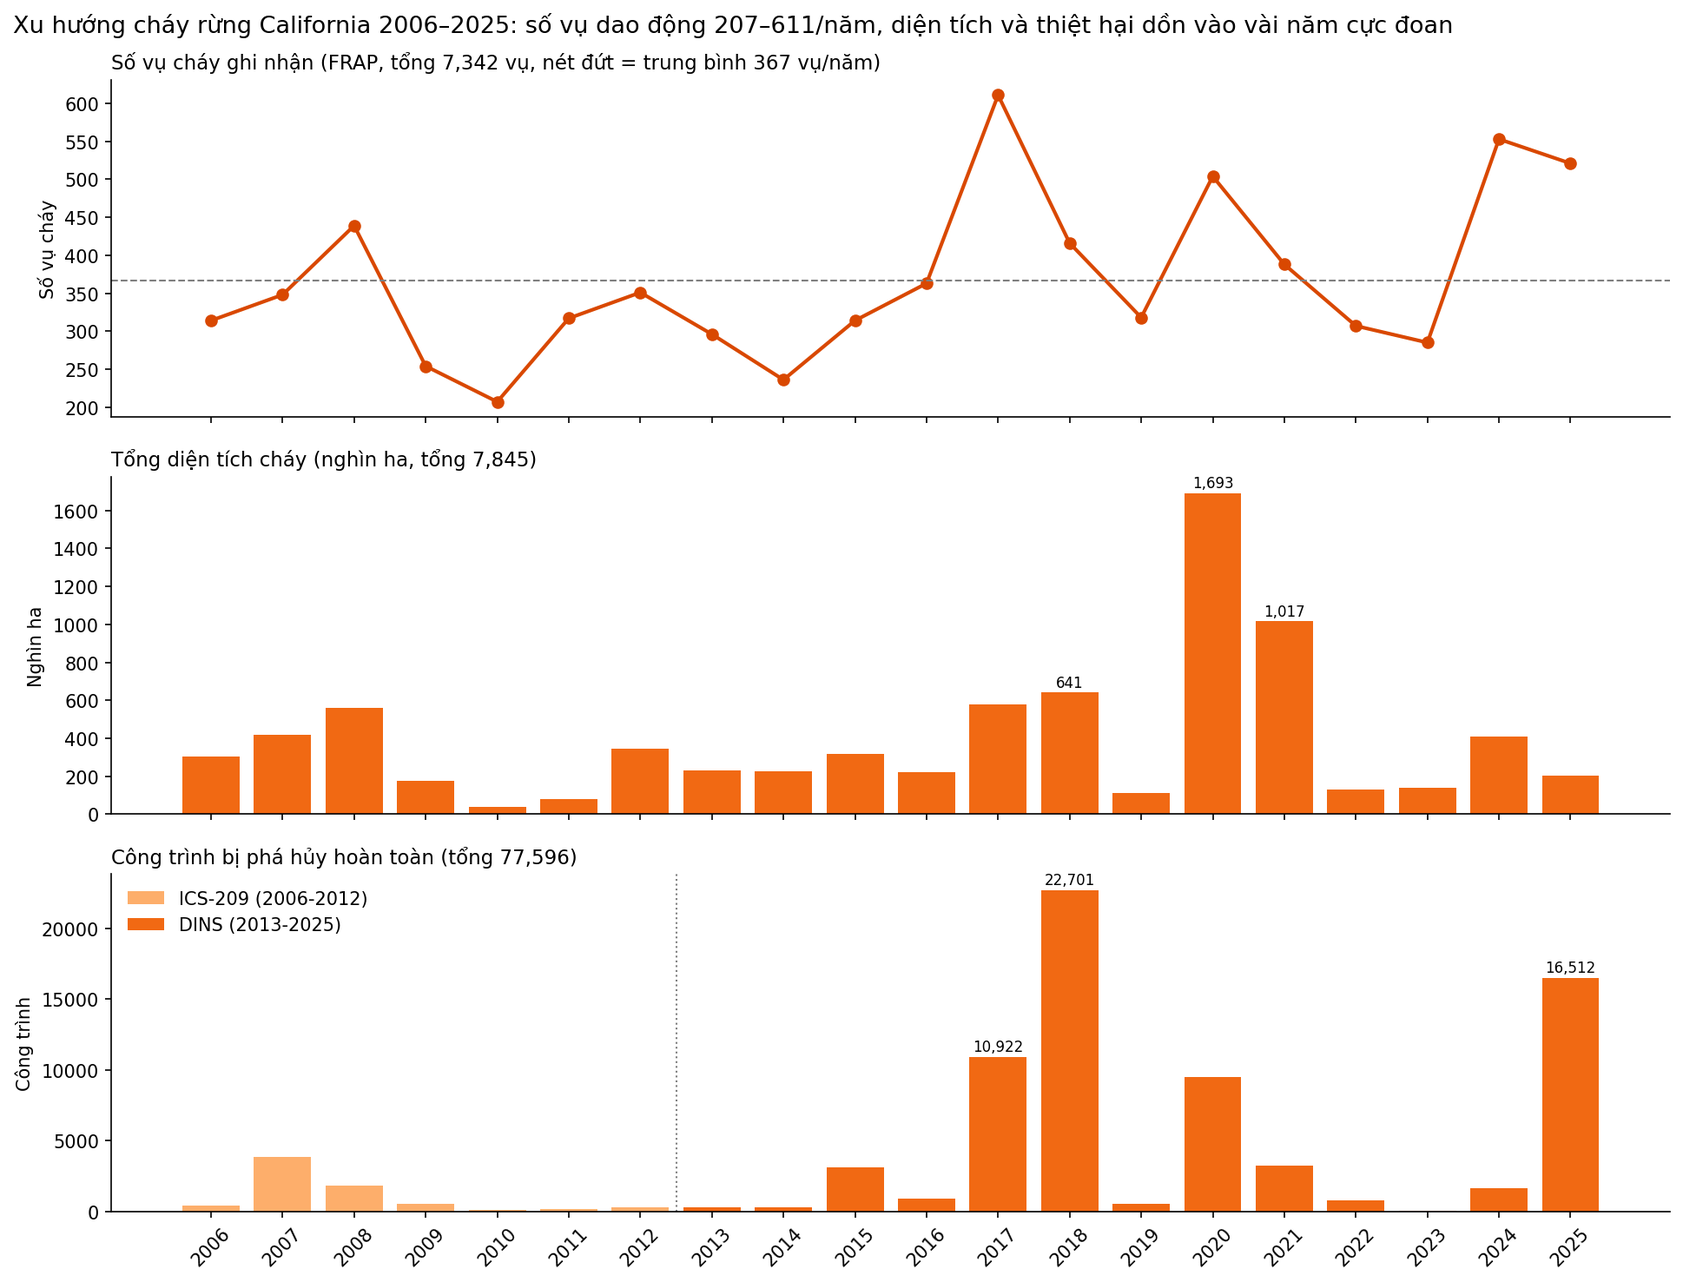
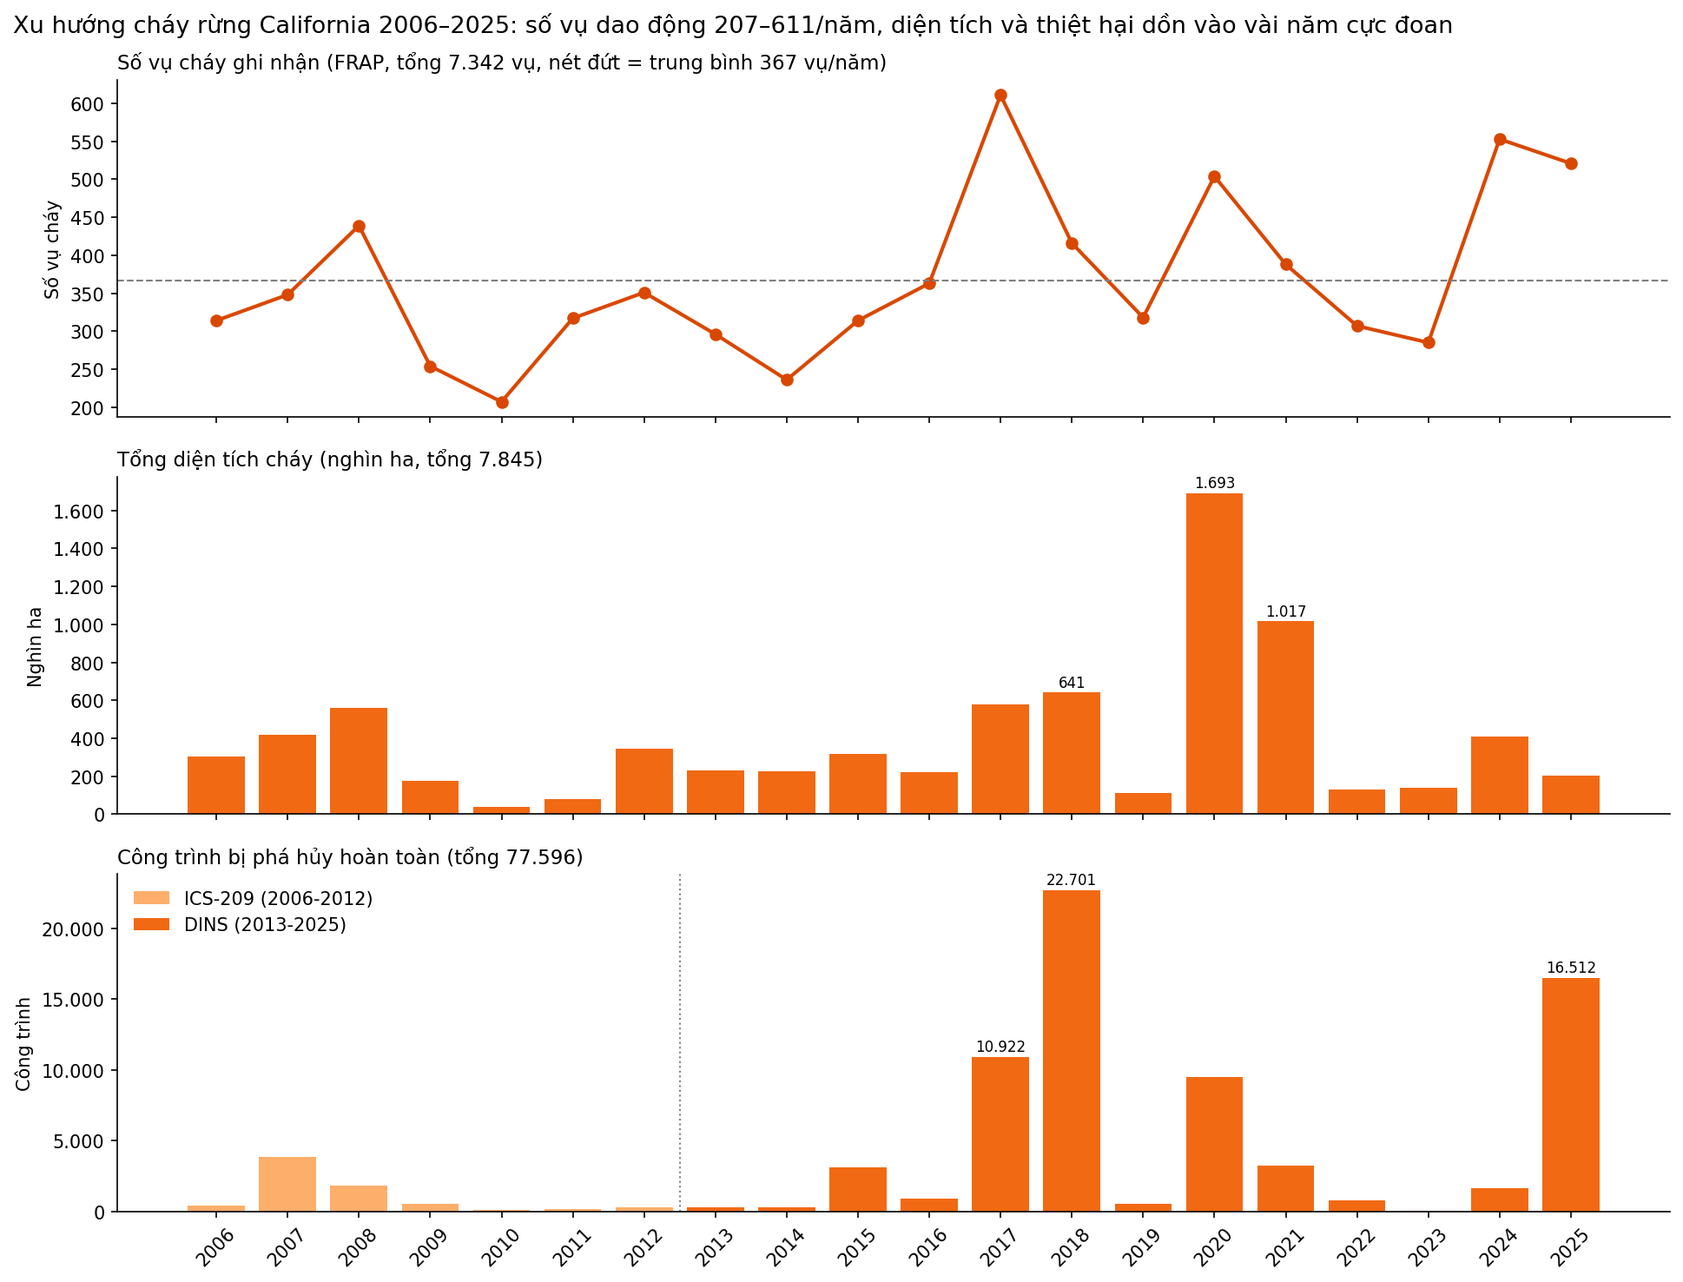
docs(charts): Vietnamese number format, fire names and model chart text
- Add vn_number / VN_TICK_FORMATTER (7.342, 0,54) and use them for every
  value, annotation and linear axis tick on EDA and model charts
- Title-case fire names on eda_06 (Camp, Eaton instead of CAMP, EATON)
- Translate model_01 / model_02 chart text to Vietnamese with diacritics

diff --git a/src/02_eda.py b/src/02_eda.py
@@ -29,6 +29,7 @@ if hasattr(sys.stdout, "reconfigure") and sys.stdout.encoding.lower() != "utf-8"
     sys.stdout.reconfigure(encoding="utf-8")
 
 import matplotlib.pyplot as plt
+from matplotlib.ticker import FuncFormatter
 import numpy as np
 import pandas as pd
 import seaborn as sns
@@ -63,6 +64,15 @@ COLOR_FIRE_EXTREME = "#8C2D04"
 # ---------------------------------------------------------------------------
 # Doc du lieu
 # ---------------------------------------------------------------------------
+
+def vn_number(value, decimals: int = 0) -> str:
+    """So hien thi tren bieu do theo kieu Viet Nam: 7.342 (hang nghin), 97,5 (thap phan)."""
+    return f"{value:,.{decimals}f}".replace(",", "_").replace(".", ",").replace("_", ".")
+
+
+# Nhan truc so kieu Viet Nam cho truc tuyen tinh (vd 20.000 thay vi 20000, 0,05 thay vi 0.05)
+VN_TICK_FORMATTER = FuncFormatter(lambda x, _: vn_number(x, 2).rstrip("0").rstrip(","))
+
 
 def load_raw_data(raw_dir: Path = RAW_DIR) -> dict:
     """Doc nguyen trang 5 file tho -> {ten_ngan: DataFrame}. Khong them / sua cot."""
@@ -209,7 +219,7 @@ def plot_missing_values(df=None, output_path: Path = FIGURES_DIR / "eda_01_missi
         top = missing_pct[missing_pct > 0].sort_values(ascending=False).head(top_n)[::-1]
 
         title = Path(RAW_FILES.get(name, name)).stem
-        ax.set_title(f"{title}\n{len(data):,} dòng | {n_missing_cols}/{data.shape[1]} cột có ô trống", loc="left", fontsize=10)
+        ax.set_title(f"{title}\n{vn_number(len(data))} dòng | {n_missing_cols}/{data.shape[1]} cột có ô trống", loc="left", fontsize=10)
         if top.empty:
             ax.text(0.5, 0.5, "Không có ô trống", ha="center", va="center", transform=ax.transAxes)
             ax.set_axis_off()
@@ -218,7 +228,7 @@ def plot_missing_values(df=None, output_path: Path = FIGURES_DIR / "eda_01_missi
         labels = [c if len(c) <= 40 else c[:37] + "..." for c in top.index]
         ax.barh(labels, top.values, color=cmap(0.3 + 0.7 * top.values / 100))
         for y, v in enumerate(top.values):
-            ax.text(v + 1, y, f"{v:.1f}%", va="center", fontsize=8)
+            ax.text(v + 1, y, f"{vn_number(v, 1)}%", va="center", fontsize=8)
         ax.axvline(50, color=COLOR_NEUTRAL, linestyle="--", linewidth=1)  # nguong 50%: can nhac bo cot
         ax.set_xlim(0, 112)
         ax.set_xlabel("Tỷ lệ khuyết thiếu (%)")
@@ -248,11 +258,11 @@ def plot_distributions(df=None, output_path: Path = FIGURES_DIR / "eda_02_distri
     fig, ax = plt.subplots(figsize=(10, 5))
     sns.histplot(area, log_scale=True, bins=40, kde=True, color=COLOR_FIRE_MID, edgecolor="white", ax=ax)
     ax.axvline(area.median(), color=COLOR_NEUTRAL, linestyle="--", linewidth=1)
-    ax.text(area.median(), 0.97, f" trung vị {area.median():,.0f} ha", transform=ax.get_xaxis_transform(), va="top", fontsize=8)
+    ax.text(area.median(), 0.97, f" trung vị {vn_number(area.median())} ha", transform=ax.get_xaxis_transform(), va="top", fontsize=8)
     ax.axvline(MEGAFIRE_HA, color=COLOR_FIRE_EXTREME, linestyle=":", linewidth=1.2)
-    ax.text(MEGAFIRE_HA, 0.88, f" siêu đám cháy\n ≥ {MEGAFIRE_HA:,.0f} ha", transform=ax.get_xaxis_transform(),
+    ax.text(MEGAFIRE_HA, 0.88, f" siêu đám cháy\n ≥ {vn_number(MEGAFIRE_HA)} ha", transform=ax.get_xaxis_transform(),
             va="top", fontsize=8, color=COLOR_FIRE_EXTREME)
-    ax.set_title(f"Diện tích cháy (FRAP {STUDY_YEARS[0]}–{STUDY_YEARS[1]}, n = {len(area):,} vụ)", loc="left", fontsize=11)
+    ax.set_title(f"Diện tích cháy (FRAP {STUDY_YEARS[0]}–{STUDY_YEARS[1]}, n = {vn_number(len(area))} vụ)", loc="left", fontsize=11)
     ax.set_xlabel("Diện tích cháy, ha (thang log)")
     ax.set_ylabel("Số vụ cháy")
     ax.spines[["top", "right"]].set_visible(False)
@@ -279,7 +289,7 @@ def plot_outlier_boxplots(df=None, output_path: Path = FIGURES_DIR / "eda_03_out
     for y, source in enumerate(palette):
         top = data[data["source"] == source].nlargest(top_n, "structures_destroyed")
         for k, (_, row) in enumerate(top.iterrows()):
-            ax.annotate(f"{row['fire_name'].title()} {int(row['year'])}: {int(row['structures_destroyed']):,}",
+            ax.annotate(f"{row['fire_name'].title()} {int(row['year'])}: {vn_number(row['structures_destroyed'])}",
                         xy=(row["structures_destroyed"], y), xytext=(0, 18 + 16 * k), textcoords="offset points",
                         ha="center", fontsize=8, arrowprops={"arrowstyle": "-", "color": COLOR_NEUTRAL, "lw": 0.8})
 
@@ -319,15 +329,17 @@ def plot_correlation_heatmap(df=None, output_path: Path = FIGURES_DIR / "eda_04_
     for ax, (title, corr) in zip(axes, matrices.items()):
         corr = corr.rename(index=labels, columns=labels).iloc[1:, :-1]
         # RdBu phan ky theo docs/COLOR_GUIDE.md muc 2.2: am = xanh, 0 = xam nhat, duong = do
-        sns.heatmap(corr, mask=mask, annot=True, fmt=".2f", cmap="RdBu_r", vmin=-1, vmax=1, center=0,
+        sns.heatmap(corr, mask=mask, annot=corr.map(lambda v: vn_number(v, 2)), fmt="", cmap="RdBu_r", vmin=-1, vmax=1, center=0,
                     square=True, linewidths=0.5, cbar=ax is axes[-1], cbar_kws={"shrink": 0.8}, ax=ax)
         ax.set_title(title, loc="left", fontsize=11)
+        if ax.collections[0].colorbar is not None:
+            ax.collections[0].colorbar.ax.yaxis.set_major_formatter(FuncFormatter(lambda x, _: vn_number(x, 2)))
         ax.tick_params(axis="x", rotation=30)
         ax.tick_params(axis="y", rotation=0)
 
     n_days = int(values["containment_days"].notna().sum())
     fig.suptitle(f"Tương quan giữa các biến vụ cháy FRAP {STUDY_YEARS[0]}–{STUDY_YEARS[1]} "
-                 f"(n = {len(fires):,} vụ; {n_days:,} vụ có đủ ngày bắt đầu / dập tắt)", fontsize=13, x=0.01, ha="left")
+                 f"(n = {vn_number(len(fires))} vụ; {vn_number(n_days)} vụ có đủ ngày bắt đầu / dập tắt)", fontsize=13, x=0.01, ha="left")
     fig.tight_layout()
     _save_figure(fig, output_path, "Correlation Heatmap")
     return fig
@@ -354,15 +366,15 @@ def plot_temporal_trends(df=None, output_path: Path = FIGURES_DIR / "eda_05_temp
     ax.plot(n_fires.index, n_fires.values, marker="o", color=COLOR_FIRE_HIGH, linewidth=2)
     ax.axhline(n_fires.mean(), color=COLOR_NEUTRAL, linestyle="--", linewidth=1)
     ax.set_ylabel("Số vụ cháy")
-    ax.set_title(f"Số vụ cháy ghi nhận (FRAP, tổng {n_fires.sum():,} vụ, nét đứt = trung bình {n_fires.mean():,.0f} vụ/năm)",
+    ax.set_title(f"Số vụ cháy ghi nhận (FRAP, tổng {vn_number(n_fires.sum())} vụ, nét đứt = trung bình {vn_number(n_fires.mean())} vụ/năm)",
                  loc="left", fontsize=11)
 
     # 2. Tong dien tich chay moi nam
     ax = axes[1]
     ax.bar(area_kha.index, area_kha.values, color=COLOR_FIRE_MID)
     ax.set_ylabel("Nghìn ha")
-    ax.set_title(f"Tổng diện tích cháy (nghìn ha, tổng {area_kha.sum():,.0f})", loc="left", fontsize=11)
-    _label_top_bars(ax, area_kha, top_n, "{:,.0f}")
+    ax.set_title(f"Tổng diện tích cháy (nghìn ha, tổng {vn_number(area_kha.sum())})", loc="left", fontsize=11)
+    _label_top_bars(ax, area_kha, top_n)
 
     # 3. Cong trinh bi pha huy moi nam, to mau theo nguon du lieu
     ax = axes[2]
@@ -372,14 +384,15 @@ def plot_temporal_trends(df=None, output_path: Path = FIGURES_DIR / "eda_05_temp
         values = destroyed.get(source, pd.Series(0, index=destroyed.index))
         ax.bar(destroyed.index, values, bottom=bottom, color=color, label=source)
         bottom += values.to_numpy()
-    _label_top_bars(ax, destroyed.sum(axis=1), top_n, "{:,.0f}")
+    _label_top_bars(ax, destroyed.sum(axis=1), top_n)
     ax.axvline(2012.5, color=COLOR_NEUTRAL, linestyle=":", linewidth=1)  # moc chuyen nguon ICS-209 -> DINS
     ax.legend(frameon=False, loc="upper left")
     ax.set_ylabel("Công trình")
-    ax.set_title(f"Công trình bị phá hủy hoàn toàn (tổng {int(destroyed.to_numpy().sum()):,})", loc="left", fontsize=11)
+    ax.set_title(f"Công trình bị phá hủy hoàn toàn (tổng {vn_number(destroyed.to_numpy().sum())})", loc="left", fontsize=11)
 
     for ax in axes:
         ax.spines[["top", "right"]].set_visible(False)
+        ax.yaxis.set_major_formatter(VN_TICK_FORMATTER)
     axes[-1].set_xticks(list(years))
     axes[-1].tick_params(axis="x", rotation=45)
     fig.suptitle(f"Xu hướng cháy rừng California {STUDY_YEARS[0]}–{STUDY_YEARS[1]}: "
@@ -390,10 +403,10 @@ def plot_temporal_trends(df=None, output_path: Path = FIGURES_DIR / "eda_05_temp
     return fig
 
 
-def _label_top_bars(ax: plt.Axes, series: pd.Series, top_n: int, fmt: str) -> None:
+def _label_top_bars(ax: plt.Axes, series: pd.Series, top_n: int) -> None:
     """Ghi gia tri len top_n cot cao nhat."""
     for x, v in series.nlargest(top_n).items():
-        ax.annotate(fmt.format(v), xy=(x, v), xytext=(0, 3), textcoords="offset points", ha="center", fontsize=8)
+        ax.annotate(vn_number(v), xy=(x, v), xytext=(0, 3), textcoords="offset points", ha="center", fontsize=8)
 
 
 def plot_casualties(df=None, output_path: Path = FIGURES_DIR / "eda_06_casualties.png", top_n: int = 3) -> plt.Figure:
@@ -420,14 +433,15 @@ def plot_casualties(df=None, output_path: Path = FIGURES_DIR / "eda_06_casualtie
         # Nhan top_n nam: gia tri sau gop + vu chay lon nhat trong nam (neu tach duoc ten)
         for year, value in merged.nlargest(top_n).items():
             top = events[events["YEAR"] == year].nlargest(1, col).iloc[0]
-            name = "" if top["fire_key"].startswith("_EVENT_") else f"\n{top['fire_key']} {top[col]:,}"
-            ax.annotate(f"{value:,}{name}", xy=(year, raw_by_year.at[year, col]), xytext=(0, 3),
+            name = "" if top["fire_key"].startswith("_EVENT_") else f"\n{top['fire_key'].title()} {vn_number(top[col])}"
+            ax.annotate(f"{vn_number(value)}{name}", xy=(year, raw_by_year.at[year, col]), xytext=(0, 3),
                         textcoords="offset points", ha="center", fontsize=8)
         ax.set_ylabel("Người")
-        ax.set_title(f"{label}: {merged.sum():,} người sau khi gộp trùng (dữ liệu thô ghi {raw_by_year[col].sum():,})",
+        ax.set_title(f"{label}: {vn_number(merged.sum())} người sau khi gộp trùng (dữ liệu thô ghi {vn_number(raw_by_year[col].sum())})",
                      loc="left", fontsize=11)
         ax.set_ylim(0, raw_by_year[col].max() * 1.25)  # chua cho nhan 2 dong tren cot cao nhat
         ax.spines[["top", "right"]].set_visible(False)
+        ax.yaxis.set_major_formatter(VN_TICK_FORMATTER)
 
     axes[0].legend(frameon=False, loc="upper left")
     axes[-1].set_xticks(list(years))
@@ -435,7 +449,7 @@ def plot_casualties(df=None, output_path: Path = FIGURES_DIR / "eda_06_casualtie
 
     deadliest = events.nlargest(1, "DEATHS_DIRECT").iloc[0]
     total_deaths = by_year["DEATHS_DIRECT"].sum()
-    fig.suptitle(f"Thiệt hại về người hiếm và dồn vào vài thảm họa: riêng {deadliest['fire_key']} {deadliest['YEAR']} chiếm "
+    fig.suptitle(f"Thiệt hại về người hiếm và dồn vào vài thảm họa: riêng {deadliest['fire_key'].title()} {deadliest['YEAR']} chiếm "
                  f"{deadliest['DEATHS_DIRECT'] / total_deaths:.0%} số người chết trực tiếp {STUDY_YEARS[0]}–{STUDY_YEARS[1]}",
                  fontsize=13, x=0.01, ha="left")
     fig.tight_layout()

diff --git a/src/08_predictive_model.py b/src/08_predictive_model.py
@@ -21,6 +21,7 @@ Cách chạy (từ thư mục gốc dự án, sau src/03_clean.py):
     python src/08_predictive_model.py
 """
 
+import importlib.util
 import sys
 from pathlib import Path
 
@@ -34,6 +35,11 @@ from scipy import stats
 from sklearn.linear_model import LinearRegression
 from sklearn.metrics import mean_absolute_error, r2_score, root_mean_squared_error
 
+# Dung lai ham dinh dang so kieu Viet Nam tu 02_eda.py (ten file bat dau bang so nen khong import thuong duoc)
+_spec = importlib.util.spec_from_file_location("eda", Path(__file__).parent / "02_eda.py")
+eda = importlib.util.module_from_spec(_spec)
+_spec.loader.exec_module(eda)
+
 INPUT_PATH = Path("data/interim/master_rules_cleaned.csv")
 FORECAST_PATH = Path("data/clean/forecast_results.csv")
 METRICS_PATH = Path("data/clean/forecast_metrics.csv")
@@ -46,9 +52,9 @@ CONFIDENCE = 0.95
 
 # (ten cot, co huan luyen tren log1p khong, nhan hien thi)
 FORECAST_TARGETS = [
-    ("n_fires", False, "So vu chay"),
-    ("area_ha", True, "Tong dien tich chay (ha)"),
-    ("destroyed", True, "Cong trinh bi pha huy"),
+    ("n_fires", False, "Số vụ cháy"),
+    ("area_ha", True, "Tổng diện tích cháy (ha)"),
+    ("destroyed", True, "Công trình bị phá hủy"),
 ]
 
 # Mau theo docs/COLOR_GUIDE.md
@@ -56,6 +62,9 @@ COLOR_ACTUAL = "#D94801"
 COLOR_FIT = "#7F7F7F"
 COLOR_FORECAST = "#2171B5"
 COLOR_BAND = "#9ECAE1"
+
+# Don vi trend_unit trong forecast_metrics.csv -> nhan hien thi tren bieu do
+TREND_UNIT_LABELS = {"%/nam": "%/năm", "don vi/nam": "vụ/năm"}
 
 
 def load_data(path: Path = INPUT_PATH) -> pd.DataFrame:
@@ -164,26 +173,28 @@ def plot_forecasts(forecast: pd.DataFrame, output_path: Path = FIGURE_PATH) -> p
         hist, future = data[~data["is_forecast"]], data[data["is_forecast"]]
 
         ax.fill_between(data["year"], data["lower_95"], data["upper_95"], color=COLOR_BAND, alpha=0.35,
-                        label=f"Khoang du bao {CONFIDENCE:.0%}")
-        ax.plot(hist["year"], hist["predicted"], color=COLOR_FIT, linewidth=1.5, label="Duong xu huong")
+                        label=f"Khoảng dự báo {CONFIDENCE:.0%}")
+        ax.plot(hist["year"], hist["predicted"], color=COLOR_FIT, linewidth=1.5, label="Đường xu hướng")
         ax.plot(future["year"], future["predicted"], color=COLOR_FORECAST, linewidth=2.2, marker="o", markersize=4,
-                label=f"Du bao {future['year'].min()}-{future['year'].max()}")
-        ax.scatter(hist["year"], hist["actual"], color=COLOR_ACTUAL, zorder=3, s=25, label="Thuc te")
+                label=f"Dự báo {future['year'].min()}–{future['year'].max()}")
+        ax.scatter(hist["year"], hist["actual"], color=COLOR_ACTUAL, zorder=3, s=25, label="Thực tế")
         ax.axvline(last_year + 0.5, color=COLOR_FIT, linestyle=":", linewidth=1)
 
         end = future.iloc[-1]
-        ax.annotate(f"{end['predicted']:,.0f}\n[{end['lower_95']:,.0f} - {end['upper_95']:,.0f}]",
+        ax.annotate(f"{eda.vn_number(end['predicted'])}\n[{eda.vn_number(end['lower_95'])} – {eda.vn_number(end['upper_95'])}]",
                     xy=(end["year"], end["predicted"]), xytext=(8, 0), textcoords="offset points",
                     va="center", fontsize=8, color=COLOR_FORECAST)
         if use_log:
             ax.set_yscale("log")  # khoang du bao lech manh, truc log de doc ca 2 dau
+        else:
+            ax.yaxis.set_major_formatter(eda.VN_TICK_FORMATTER)
         ax.set_ylabel(label + (" (log)" if use_log else ""))
         ax.spines[["top", "right"]].set_visible(False)
 
     axes[0].legend(frameon=False, loc="upper left", fontsize=8, ncol=4)
     axes[-1].set_xticks(range(int(forecast["year"].min()), int(forecast["year"].max()) + 1, 2))
-    fig.suptitle(f"Du bao Linear Regression {min(FORECAST_YEARS)}-{max(FORECAST_YEARS)} "
-                 f"(vung xanh = khoang du bao {CONFIDENCE:.0%})", fontsize=13, x=0.01, ha="left")
+    fig.suptitle(f"Dự báo hồi quy tuyến tính {min(FORECAST_YEARS)}–{max(FORECAST_YEARS)} "
+                 f"(vùng xanh = khoảng dự báo {CONFIDENCE:.0%})", fontsize=13, x=0.01, ha="left")
     fig.tight_layout()
 
     output_path.parent.mkdir(parents=True, exist_ok=True)
@@ -197,9 +208,9 @@ def plot_model_metrics(metrics: pd.DataFrame, output_path: Path = METRICS_FIGURE
     fig, axes = plt.subplots(1, 3, figsize=(15, 4.5))
 
     labels_map = {
-        "n_fires": "So vu chay\n(n_fires)",
-        "area_ha": "Tong dien tich\n(area_ha)",
-        "destroyed": "Cong trinh pha huy\n(destroyed)",
+        "n_fires": "Số vụ cháy\n(n_fires)",
+        "area_ha": "Tổng diện tích\n(area_ha)",
+        "destroyed": "Công trình phá hủy\n(destroyed)",
     }
     y_labels = [labels_map.get(m, m) for m in metrics["metric"]]
 
@@ -210,27 +221,29 @@ def plot_model_metrics(metrics: pd.DataFrame, output_path: Path = METRICS_FIGURE
     max_trend = float(metrics["trend_per_year"].max())
     for bar, (_, row) in zip(bars, metrics.iterrows()):
         val = row["trend_per_year"]
-        unit = row["trend_unit"]
+        unit = TREND_UNIT_LABELS.get(row["trend_unit"], row["trend_unit"])
         ax.text(val + (max_trend * 0.03), bar.get_y() + bar.get_height() / 2,
-                f"+{val:.2f} {unit}", va="center", ha="left", fontsize=9, fontweight="bold", color="#084594")
-    ax.set_title("1. Toc do thay doi hang nam (Trend)", fontsize=11, fontweight="bold", loc="left")
-    ax.set_xlabel("Gia tri thay doi moi nam")
+                f"{'+' if val >= 0 else '-'}{eda.vn_number(abs(val), 2)} {unit}", va="center", ha="left", fontsize=9, fontweight="bold", color="#084594")
+    ax.set_title("1. Tốc độ thay đổi hằng năm (xu hướng)", fontsize=11, fontweight="bold", loc="left")
+    ax.set_xlabel("Giá trị thay đổi mỗi năm")
     ax.set_xlim(0, max_trend * 1.5)
+    ax.xaxis.set_major_formatter(eda.VN_TICK_FORMATTER)
     ax.spines[["top", "right"]].set_visible(False)
 
     # 2. Muc y nghia thong ke (p-value) & R2
     ax = axes[1]
     p_colors = [COLOR_ACTUAL if p < 0.05 else (COLOR_BAND if p < 0.1 else COLOR_FIT) for p in metrics["p_value"]]
     bars = ax.bar(y_labels, metrics["p_value"], color=p_colors, alpha=0.85, width=0.5)
-    ax.axhline(0.05, color="#B2182B", linestyle=":", linewidth=1.5, label="Nguong p = 0.05 (95% CI)")
+    ax.axhline(0.05, color="#B2182B", linestyle=":", linewidth=1.5, label="Ngưỡng p = 0,05 (độ tin cậy 95%)")
     max_p = float(metrics["p_value"].max())
     for bar, (_, row) in zip(bars, metrics.iterrows()):
         ax.text(bar.get_x() + bar.get_width() / 2, bar.get_height() + 0.02,
-                f"p={row['p_value']:.3f}\nR²={row['r2_fit_all_years']:.1%}",
+                f"p = {eda.vn_number(row['p_value'], 3)}\nR² = {eda.vn_number(row['r2_fit_all_years'] * 100, 1)}%",
                 ha="center", va="bottom", fontsize=8.5)
-    ax.set_title("2. Kiem dinh y nghia thong ke (p-value)", fontsize=11, fontweight="bold", loc="left")
-    ax.set_ylabel("Gia tri p-value")
+    ax.set_title("2. Kiểm định ý nghĩa thống kê (p-value)", fontsize=11, fontweight="bold", loc="left")
+    ax.set_ylabel("Giá trị p-value")
     ax.set_ylim(0, max_p * 1.35)
+    ax.yaxis.set_major_formatter(eda.VN_TICK_FORMATTER)
     ax.legend(frameon=False, loc="upper right", fontsize=8.5)
     ax.spines[["top", "right"]].set_visible(False)
 
@@ -238,19 +251,20 @@ def plot_model_metrics(metrics: pd.DataFrame, output_path: Path = METRICS_FIGURE
     ax = axes[2]
     rel_mae = (metrics["mae"] / metrics["mae_naive_mean"]) * 100
     bars = ax.bar(y_labels, rel_mae, color=["#6BAED6", "#9ECAE1", "#4292C6"], alpha=0.9, width=0.5)
-    ax.axhline(100, color="#7F7F7F", linestyle="--", linewidth=1.2, label="Moc Baseline Naive (100%)")
+    ax.axhline(100, color="#7F7F7F", linestyle="--", linewidth=1.2, label="Mốc so sánh: đoán bằng trung bình (100%)")
     max_rel = float(rel_mae.max())
     for bar, (_, row), r in zip(bars, metrics.iterrows(), rel_mae):
         ax.text(bar.get_x() + bar.get_width() / 2, bar.get_height() + 1.5,
-                f"{r:.1f}%\n(MAE: {row['mae']:,.0f})",
+                f"{eda.vn_number(r, 1)}%\n(MAE: {eda.vn_number(row['mae'])})",
                 ha="center", va="bottom", fontsize=8)
-    ax.set_title("3. So sanh MAE mo hinh vs Naive Baseline", fontsize=11, fontweight="bold", loc="left")
-    ax.set_ylabel("Ty le MAE / Naive MAE (%)")
+    ax.set_title("3. So sánh MAE mô hình với mốc trung bình", fontsize=11, fontweight="bold", loc="left")
+    ax.set_ylabel("Tỷ lệ MAE mô hình / MAE mốc (%)")
     ax.set_ylim(0, max_rel * 1.25)
+    ax.yaxis.set_major_formatter(eda.VN_TICK_FORMATTER)
     ax.legend(frameon=False, loc="upper right", fontsize=8.5)
     ax.spines[["top", "right"]].set_visible(False)
 
-    fig.suptitle("Tong hop cac thong so danh gia mo hinh hoi quy (Linear Regression 2006-2025)",
+    fig.suptitle("Tổng hợp các thông số đánh giá mô hình hồi quy tuyến tính (2006–2025)",
                  fontsize=12, fontweight="bold", x=0.01, ha="left")
     fig.tight_layout()
 
